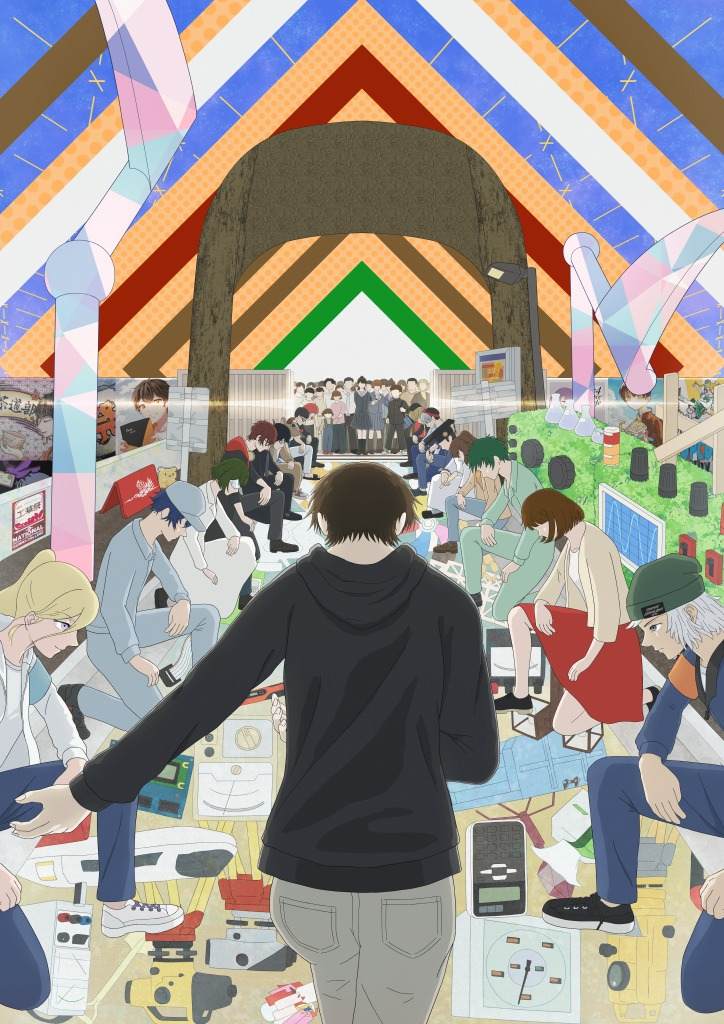
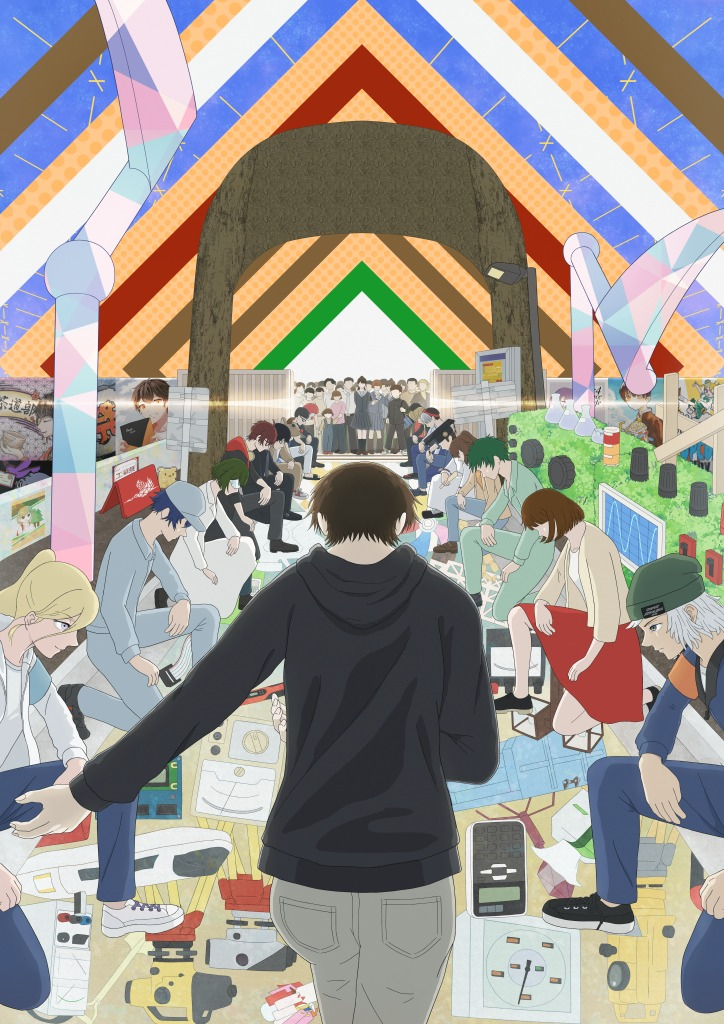
change: ポスターを変更,ポスター下の群馬高専の文字を削除

diff --git a/src/components/home/Home.js b/src/components/home/Home.js
@@ -5,7 +5,6 @@ import "../../css/pageStyle.css";
 //import portrait_sakana from "../../img/portrait/portrait_sakana.png";
 
 //import kokasaiPoster from "../../img/poster/kokasaiPoster.jpg";
-//import kosenText from "../../img/poster/kosenText.png";
 //import kosenTitle from "../../img/poster/kosenTitle.png";
 //import mojamoja from "../../img/poster/mojamoja.png";
 //import mainTitle from "../../img/poster/mainTitle.png";
@@ -40,7 +39,6 @@ function Home() {
         <img src={`${process.env.PUBLIC_URL}/img/poster/kokasaiPoster.jpg`} id="kokasaiPoster_mirror" className="kokasaiPoster_mirror" />
       </div>
       <div id="posterArea" className="posterArea">
-        <img src={`${process.env.PUBLIC_URL}/img/poster/kosenText.png`} className="kosenText" />
         <img src={`${process.env.PUBLIC_URL}/img/poster/kosenTitle.png`} className="kosenTitle" />
         <img src={`${process.env.PUBLIC_URL}/img/poster/mojamoja.png`} className="mojamoja" />
         <img src={`${process.env.PUBLIC_URL}/img/poster/mainTitle.png`} className="mainTitle" />

diff --git a/src/components/home/homeStyle.css b/src/components/home/homeStyle.css
@@ -144,25 +144,6 @@
     z-index: -10;
 }
 
-.kosenText{
-    position: absolute;
-    width: 34%;
-    top: 94%;
-    left: 33%;
-    opacity: 0%;
-
-    animation-duration: 2s;
-    animation-delay: 5s;
-    animation-timing-function: ease;
-    animation-fill-mode: forwards;
-    animation-name: kosenTextAnimation;
-}
-@keyframes kosenTextAnimation{
-    100%{
-        opacity: 100%;
-    }
-}
-
 .kosenTitle{
     position: absolute;
     width: 60%;
@@ -186,7 +167,7 @@
     position: absolute;
     width: 30%;
     top: 95%;
-    left: 2%;
+    left: 8%;
     opacity: 0%;
 
     animation-duration: 2s;
